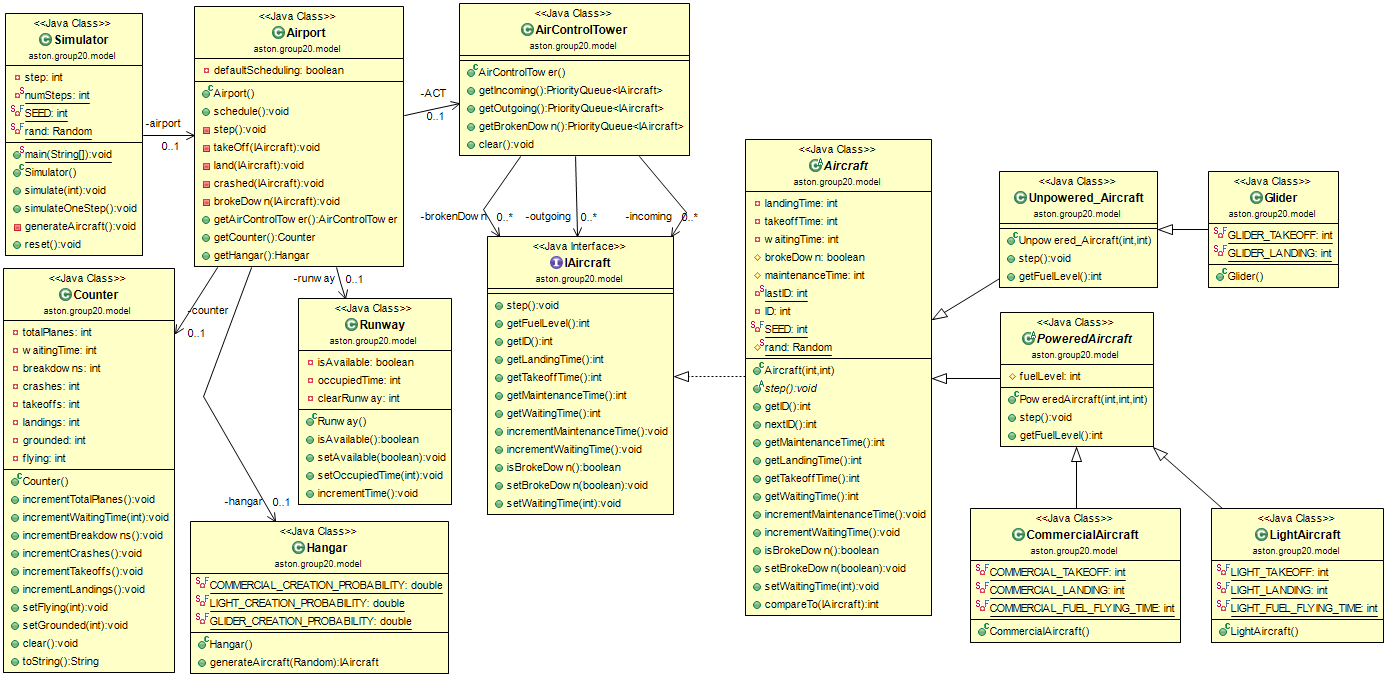
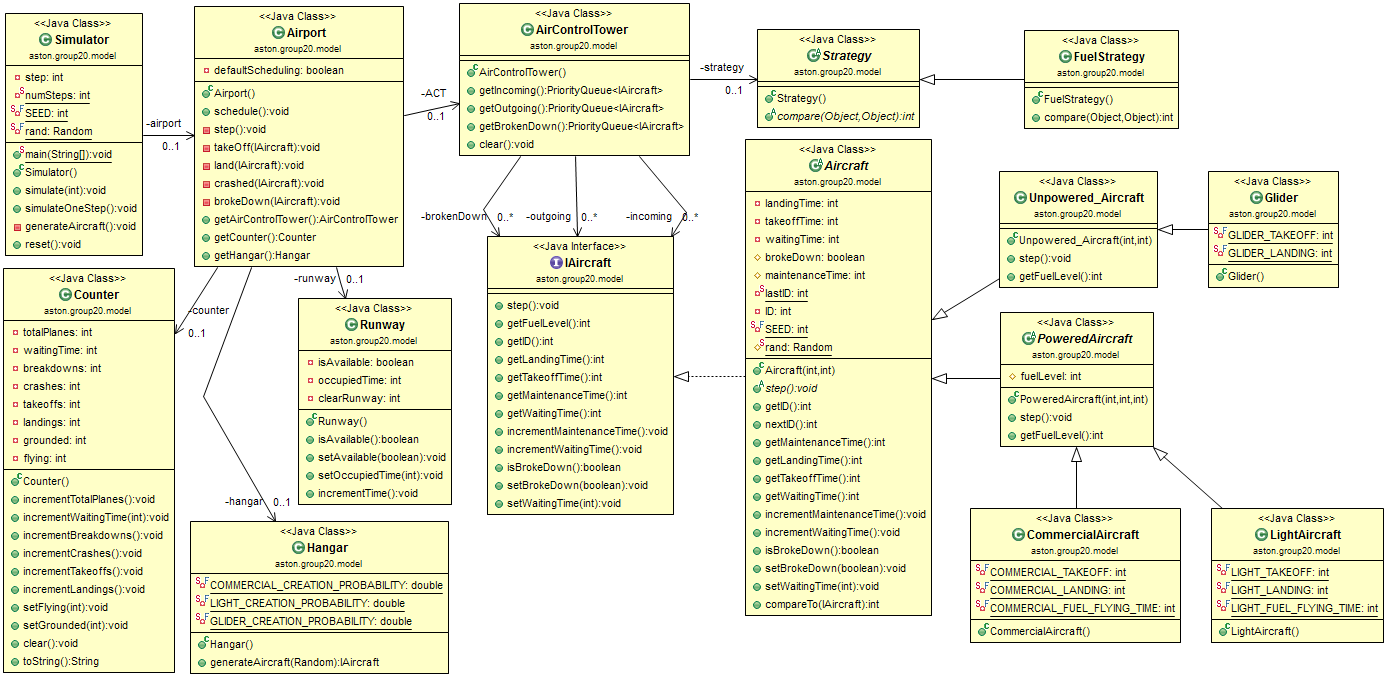
Cleaning up Imports and Strategies
Sup

diff --git a/JPD_Cwk_2014_Group20/src/aston/group20/model/AirControlTower.java b/JPD_Cwk_2014_Group20/src/aston/group20/model/AirControlTower.java
@@ -13,9 +13,10 @@ public class AirControlTower {
 	private PriorityQueue<IAircraft> incoming;
 	private PriorityQueue<IAircraft> outgoing;
 	private PriorityQueue<IAircraft> brokenDown;
-	private FuelPriority strategy;
+	private Strategy strategy;
 
 	public AirControlTower() {
+		strategy = new FuelStrategy();
 		incoming = new PriorityQueue<IAircraft>(500, strategy);
 		outgoing = new PriorityQueue<IAircraft>();
 		brokenDown = new PriorityQueue<IAircraft>();

diff --git a/JPD_Cwk_2014_Group20/src/aston/group20/GUIview/GUI.java b/JPD_Cwk_2014_Group20/src/aston/group20/GUIview/GUI.java
@@ -1,14 +1,9 @@
 package aston.group20.GUIview;
 import aston.group20.model.Simulator;
-
 import java.awt.*;
-import java.awt.event.ActionEvent;
-import java.awt.event.ActionListener;
-import java.awt.event.WindowAdapter;
-import java.awt.event.WindowEvent;
-
+import java.awt.event.*;
 import javax.swing.*;
-import javax.swing.border.EmptyBorder;
+import javax.swing.border.*;
 
 
 public class GUI {

diff --git a/JPD_Cwk_2014_Group20/src/aston/group20/model/FuelStrategy.java b/JPD_Cwk_2014_Group20/src/aston/group20/model/FuelStrategy.java
@@ -1,0 +1,12 @@
+package aston.group20.model;
+
+public class FuelStrategy extends Strategy {
+
+	public int compare(Object o1, Object o2) {
+		
+		Aircraft a1 = (Aircraft) o1;
+		Aircraft a2 = (Aircraft) o2;
+		
+	     return Integer.compare(a1.getFuelLevel(), a2.getFuelLevel());
+	}
+}
